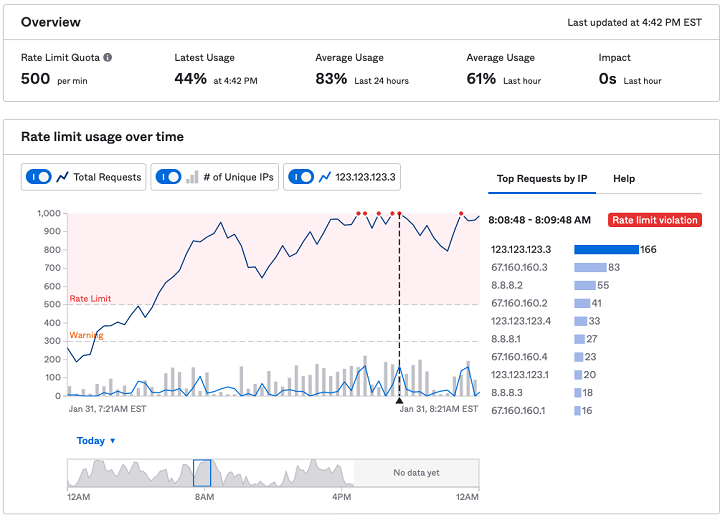
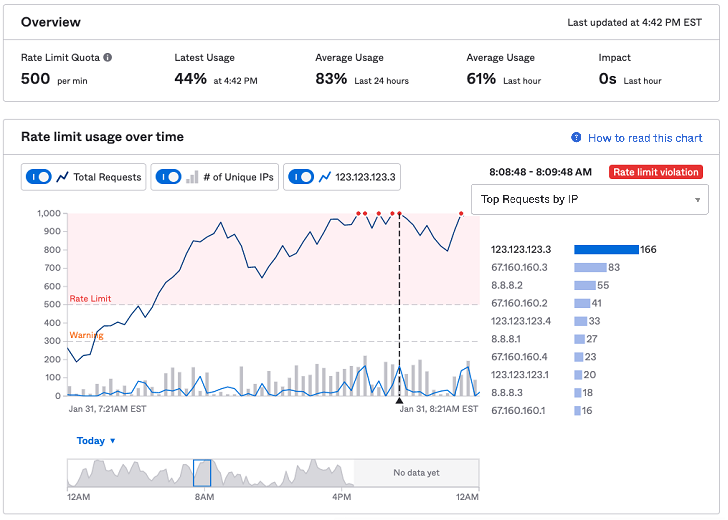
Updates to rl pages as per new feature, inlcuding new image and updated image

diff --git a/packages/@okta/vuepress-site/docs/reference/rl-dashboard/index.md b/packages/@okta/vuepress-site/docs/reference/rl-dashboard/index.md
@@ -11,8 +11,8 @@ The rate limit dashboard is a tool that helps you understand the use of each API
 * The ability to track the rate limit's consumption.
 * The ability to change rate limit settings and customize the warning threshold.
 * Notification alerts when you're about to hit or have hit the rate limit or exceeded the rate limit (burst rate limits).
+* The ability to track rate limits by API Token or IP address.
 * The ability for you to investigate the issue when an API has reached the rate limit.
-* The ability to track and configure rate limits by API Token.
 
 The following describes some typical reasons for viewing the dashboard:
 
@@ -43,7 +43,7 @@ The following describes typical uses of the functions in the Rate limits report:
 
 In the Admin Console, go to **Reports** > **Rate Limits**. The rate limits report opens in the **Overview** tab.
 
-<div class="three-quarter">
+<div >
 
 ![Displays the rate limits dashboard to monitor and browse rate limit usage.](/img/rate-limits/rl_dashboard6.png)
 
@@ -186,9 +186,17 @@ The timeline graph shows use over the last week. When a rate violation occurs, y
 
 ##### Bar graph
 
-The **Top Requests by IP** bar graph shows the top 10 IP addresses that are consuming the most traffic for the API. This view enables you to check if there is a single IP or multiple IPs that are creating the spike in traffic.
+The bar graph shows either the top 10 IP addresses or top 10 API Tokens that are consuming the most traffic for the API. This view enables you to check if there are IP addresses or API Tokens that are creating the spike in traffic.
 
-Click an IP address bar once to view the traffic for that IP address on the line graph. Double-click any IP address bar to view the traffic for all the IP addresses on the line graph.
+Display the desired bar graph by selecting **Top Requests by IP** or **Top Requests by API Token** in the dropdown menu.
+
+Click an IP address bar or API Token once to view the traffic for that IP address or API Token on the line graph. Double-click any IP address bar or API Token to view the traffic for all the IP addresses or Tokens on the line graph.
+
+<div class="three-quarter">
+
+![Displays the RL usage over time and bar graph dropdown](/img/rate-limits/rl_usage_over_time-bar-dropdown.png)
+
+</div>
 
 ### Investigate the rate limit violation
 

diff --git a/packages/@okta/vuepress-site/docs/reference/rate-limits/index.md b/packages/@okta/vuepress-site/docs/reference/rate-limits/index.md
@@ -58,7 +58,7 @@ On the rate limit dashboard, the trendline can now exceed 100% of the org's defa
 
 <div class="three-quarter">
 
-![Displays the rate limits dashboard to show the trendline with burst rate limits.](/img/rate-limits/rl_BRLdashboard1.png)
+![Displays the rate limits dashboard to show the trendline with burst rate limits.](/img/rate-limits/rl_usage_over_time.png)
 
 </div>
 
